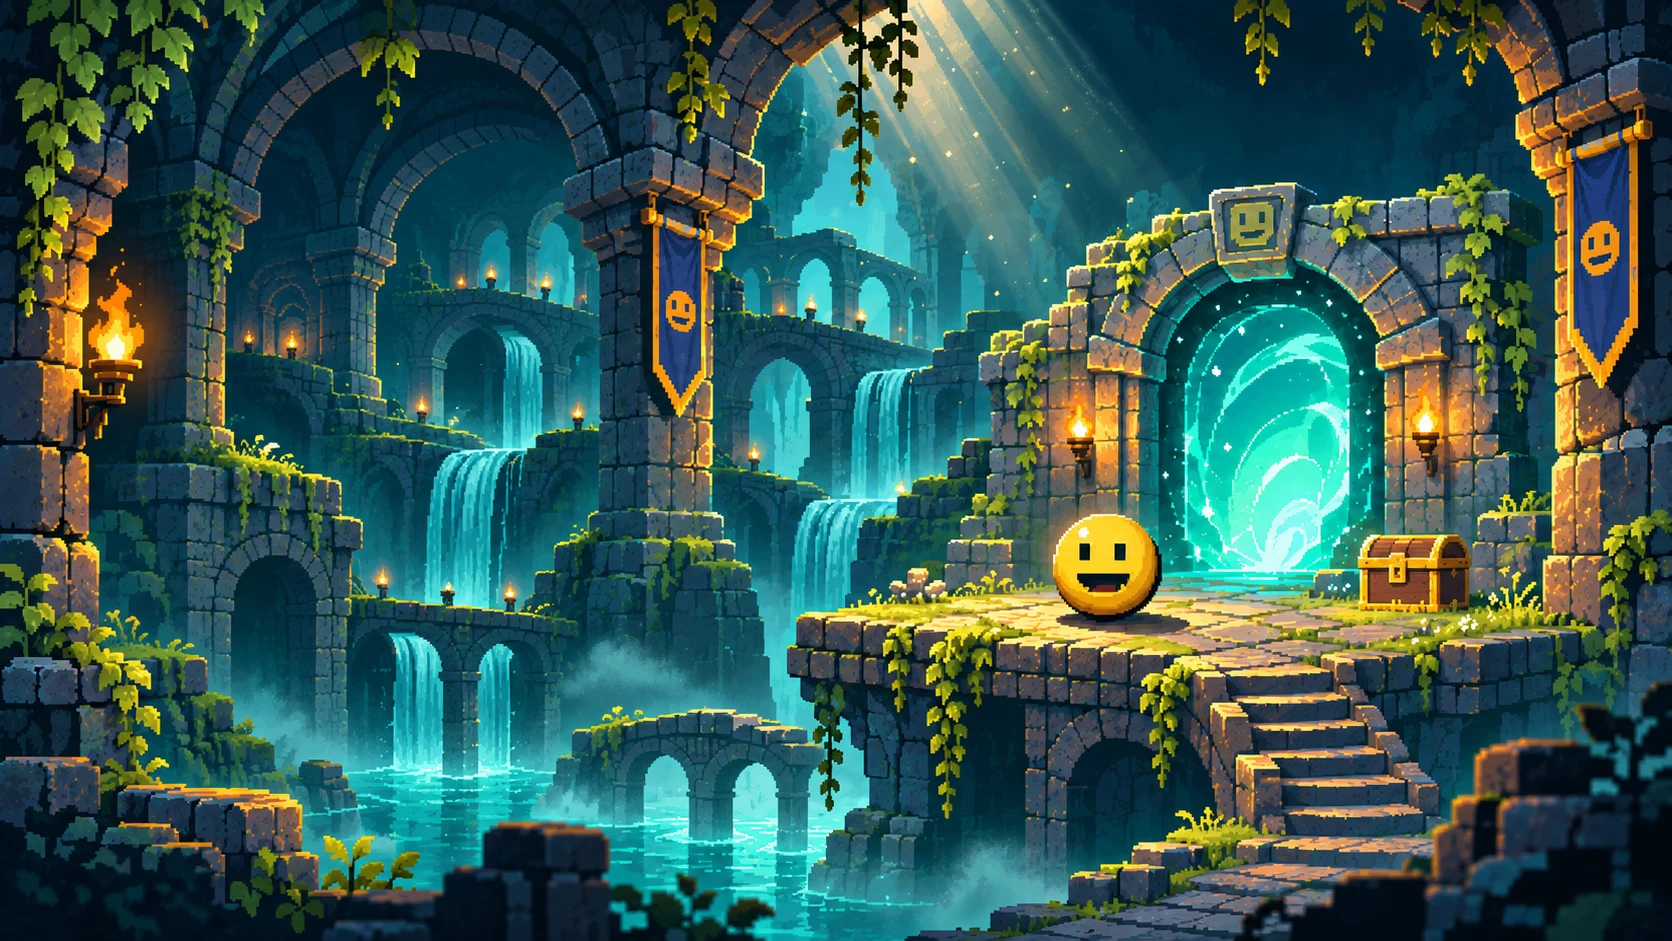
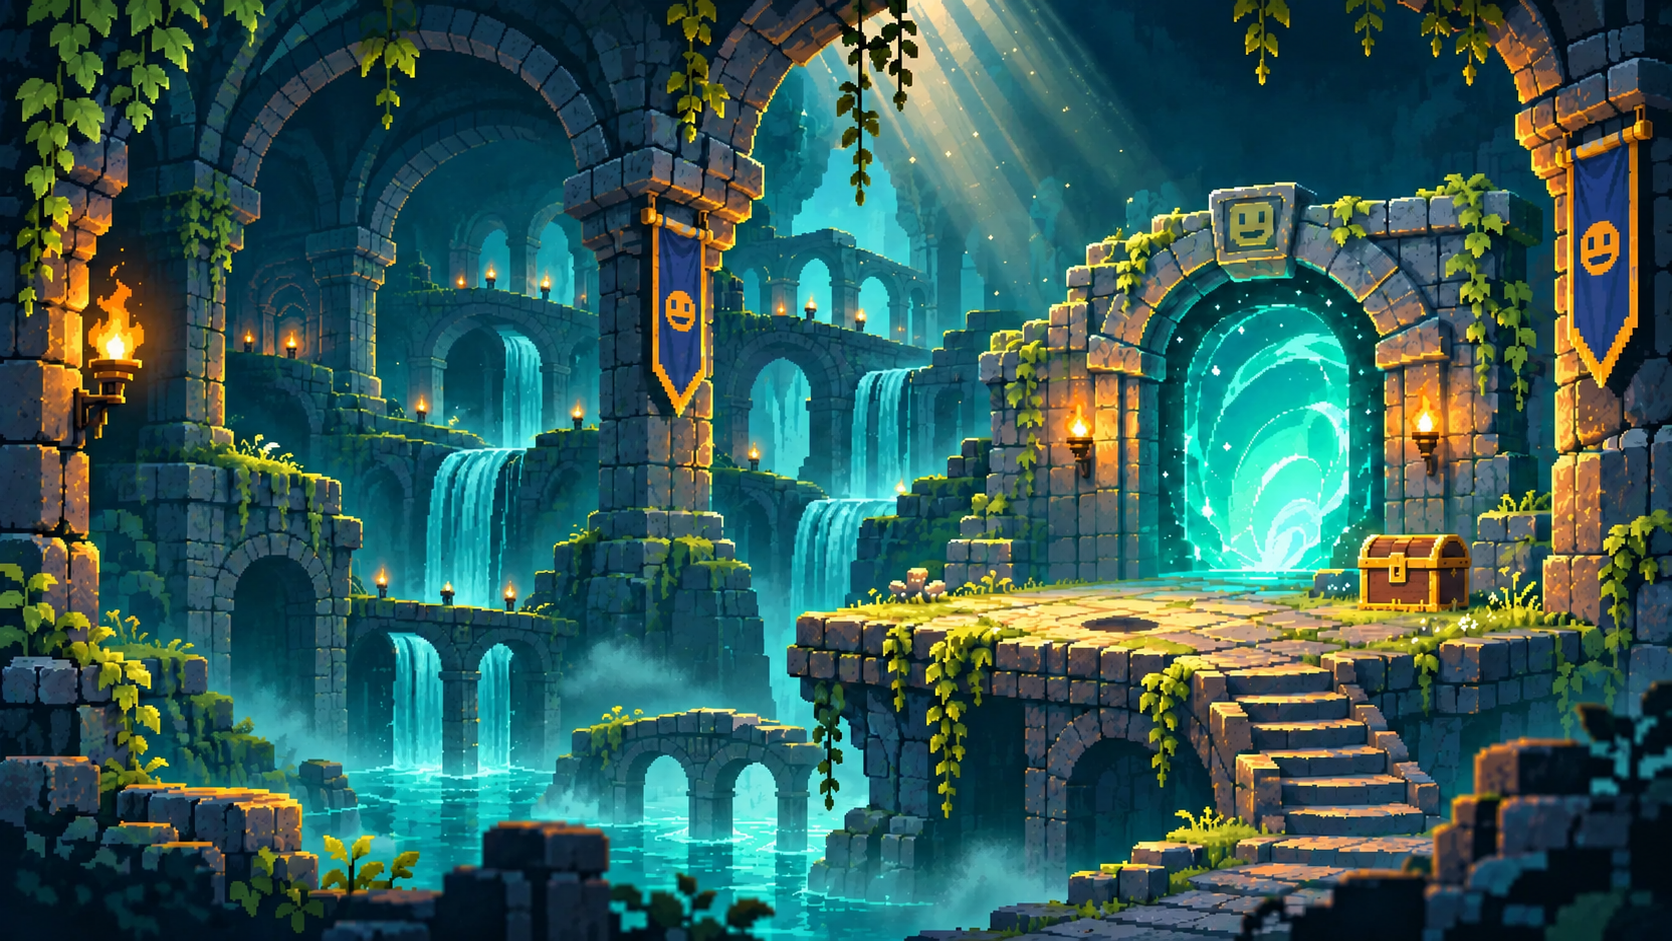
Afina el fons del menu i usa la canica original

diff --git a/Assets/Scripts/AlphaMainMenu.cs b/Assets/Scripts/AlphaMainMenu.cs
@@ -32,6 +32,7 @@ public class AlphaMainMenu : MonoBehaviour
         var backdrop = UIKit.Box(transform, Vector2.zero, Vector2.zero, UIKit.Ink, "Fons del menú");
         UIKit.Stretch(backdrop);
         backdrop.GetComponent<Image>().raycastTarget = false;
+        var marble = CosmeticsDatabase.Instance?.playerSprite ?? AlphaVisualStyle.Current?.player;
         var art = Resources.Load<Sprite>(Art + "Fons");
         if (art != null)
         {
@@ -39,6 +40,8 @@ public class AlphaMainMenu : MonoBehaviour
             var fitter = background.gameObject.AddComponent<AspectRatioFitter>();
             fitter.aspectRatio = art.rect.width / art.rect.height;
             fitter.aspectMode = AspectRatioFitter.AspectMode.EnvelopeParent;
+            // Coordenades sobre la imatge, perquè la canica conserve el lloc quan el fons es retalla.
+            PlaceMarble(background.rectTransform, marble, "Canica del fons", new Vector2(.665f, .398f), .066f, art);
         }
 
         safeContent = UIKit.Empty(transform, "Àrea segura del menú");
@@ -48,6 +51,7 @@ public class AlphaMainMenu : MonoBehaviour
         {
             var image = UIKit.Picture(safeContent, logo, Vector2.zero, new Vector2(500, 375));
             PlaceFromLeft(image.rectTransform, 325, 163);
+            PlaceMarble(image.rectTransform, marble, "Canica del logo", new Vector2(.773f, .568f), .116f, logo);
         }
         else
         {
@@ -73,6 +77,19 @@ public class AlphaMainMenu : MonoBehaviour
         version.rectTransform.anchorMin = version.rectTransform.anchorMax = Vector2.zero;
         version.rectTransform.pivot = Vector2.zero;
         version.rectTransform.anchoredPosition = new Vector2(28, 16);
+    }
+
+    static void PlaceMarble(RectTransform parent, Sprite marble, string name, Vector2 position, float width, Sprite artwork)
+    {
+        if (marble == null) return;
+        var image = UIKit.Picture(parent, marble, Vector2.zero, Vector2.zero);
+        image.name = name;
+        float height = width * artwork.rect.width / artwork.rect.height;
+        var half = new Vector2(width, height) * .5f;
+        var rect = image.rectTransform;
+        rect.anchorMin = position - half;
+        rect.anchorMax = position + half;
+        rect.offsetMin = rect.offsetMax = Vector2.zero;
     }
 
     UIKit.UIButton AddButton(string label, float y, UnityAction action, bool primary = false)

diff --git a/Assets/Scripts/Net/NetBot.cs b/Assets/Scripts/Net/NetBot.cs
@@ -735,6 +735,14 @@ public partial class NetBot : MonoBehaviour
         yield return new WaitForSeconds(1.5f);
         var menu = FindFirstObjectByType<AlphaMainMenu>();
         if (menu == null) { Fail("falta el menú principal"); yield break; }
+        var originalMarble = CosmeticsDatabase.Instance?.playerSprite;
+        var backdrop = Resources.Load<Sprite>("Pixel/Menu140/Fons");
+        if (backdrop == null || backdrop.texture.filterMode != FilterMode.Point ||
+            originalMarble == null ||
+            GameObject.Find("Canica del fons")?.GetComponent<UnityEngine.UI.Image>()?.sprite != originalMarble ||
+            GameObject.Find("Canica del logo")?.GetComponent<UnityEngine.UI.Image>()?.sprite != originalMarble)
+        { Fail("falta el fons nítid o el sprite de la canica al menú"); yield break; }
+        Ok("el fons conserva els píxels i les dos caniques usen el sprite original");
         var labels = new[] { "JUGAR", "PERSONALITZAR", "AJUSTOS", "CONTROLS", "NOVETATS" };
         foreach (string label in labels)
         {

diff --git a/Assets/Editor/PixelArtImporter.cs b/Assets/Editor/PixelArtImporter.cs
@@ -30,9 +30,11 @@ public class PixelArtImporter : AssetPostprocessor
         importer.isReadable = true; // Per a poder fer la vora de raresa dels items per codi
         if (path.StartsWith("Assets/Resources/Pixel/Menu140/", System.StringComparison.Ordinal))
         {
-            importer.filterMode = FilterMode.Bilinear;
+            bool fullSizeArtwork = path.EndsWith("/Fons.png", System.StringComparison.Ordinal) ||
+                path.EndsWith("/Logo.png", System.StringComparison.Ordinal);
+            importer.filterMode = fullSizeArtwork ? FilterMode.Point : FilterMode.Bilinear;
             importer.isReadable = false;
-            importer.maxTextureSize = path.EndsWith("Fons.png") || path.EndsWith("Logo.png") ? 2048 : 1024;
+            importer.maxTextureSize = fullSizeArtwork ? 2048 : 1024;
         }
     }
 }
